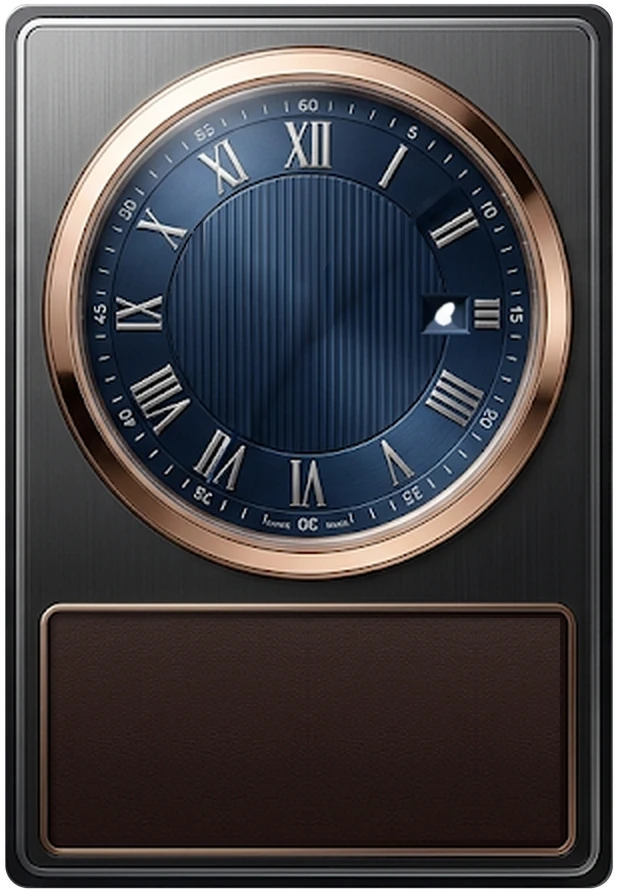
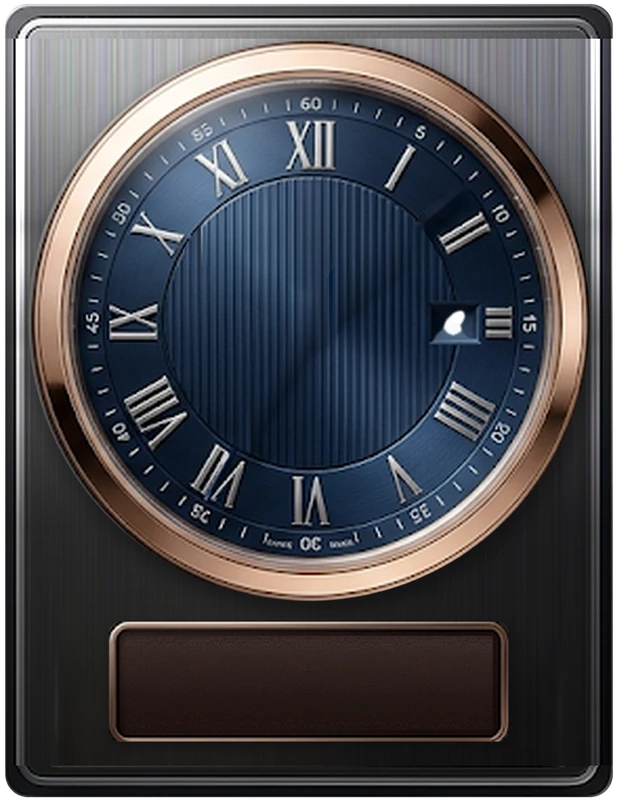
Add files via upload

diff --git a/clock.js b/clock.js
@@ -1,4 +1,12 @@
-
+/* =====================================================================
+   왼쪽 사진 아래 시계 (아날로그 + 디지털)
+   - 왼쪽 칸 맨 위에 시계, 그 옆에 파란 글씨 칸, 그 아래에 사진이 와요.
+   - 시계를 더블클릭하면 시계만 작은 창으로 떠요 (크롬·엣지 PC: 다른 프로그램 위에 항상 떠 있음).
+     그 밖의 브라우저에서는 홈페이지 화면 오른쪽 아래에 떠 있어요.
+     떠 있는 시계를 다시 더블클릭하거나 창을 닫으면 원래 자리로 돌아와요.
+   - 시계 그림: clock-face.webp (watchsample 이미지에서 바늘·숫자를 지운 것)
+   - 크기 조절: 아래 CLOCK_WIDTH 값을 바꾸면 돼요 (사진 높이도 자동으로 맞춰져요).
+   ===================================================================== */
 (function () {
     "use strict";
 
@@ -9,6 +17,9 @@
     var POPUP_W = 240, POPUP_H = 311; // 떠 있는 창 크기(px) - 시계 비율과 같게
     var VB_W = 618, VB_H = 801;      // 시계 그림 기준 크기 (비율 유지용)
 
+    var NOTE_TEXT = "Everything will be okay.";  // 시계 옆 파란 칸 글씨
+    var NOTE_HOLD = 15;                         // 다 쓴 뒤 다시 쓰기까지 기다리는 시간(초)
+
     var NS = "http://www.w3.org/2000/svg";
     var CYAN = "#3fd4ff";
     var DAYS = ["SUN", "MON", "TUE", "WED", "THU", "FRI", "SAT"];
@@ -17,14 +28,23 @@
     /* ---------- 스타일 ---------- */
     var style = document.createElement("style");
     style.textContent = [
-        ".tree-panel { --dc-w: " + CLOCK_WIDTH + "px; }",
-        ".tree-panel img { height: calc(100% - var(--dc-w) * " + (VB_H / VB_W) + " - 12px) !important; }",
-        ".dc-home { position: absolute; left: 0; bottom: 0; width: var(--dc-w); }",
+        ".tree-panel { --dc-w: " + CLOCK_WIDTH + "px; --dc-h: calc(var(--dc-w) * " + (VB_H / VB_W) + "); }",
+        /* 시계 줄이 위, 사진이 아래 */
+        ".tree-panel img { top: calc(var(--dc-h) + 12px) !important; height: calc(100% - var(--dc-h) - 12px) !important; }",
+        ".dc-home { position: absolute; top: 0; left: 0; right: 24px; height: var(--dc-h); display: flex; gap: 10px; }",
+        ".dc-slot { flex: none; width: var(--dc-w); height: var(--dc-h); }",
         ".dc-wrap { width: 100%; cursor: pointer; user-select: none; -webkit-user-select: none; }",
         ".dc-svg { display: block; width: 100%; height: auto; filter: drop-shadow(0 3px 6px rgba(0,0,0,.35)); }",
         ".dc-wrap.dc-float { position: fixed; right: 16px; bottom: 16px; width: 170px; z-index: 2147483000; }",
         ".dc-ph { display: none; padding: 6px 2px; font-size: 10px; line-height: 1.4; color: #888; cursor: pointer; }",
-        ".dc-home.dc-away .dc-ph { display: block; }"
+        ".dc-home.dc-away .dc-ph { display: block; }",
+        /* 시계 옆 파란 칸 (졸라맨 칸과 같은 구조) */
+        ".dc-note { position: relative; flex: 1 1 auto; min-width: 0; background: #1f5fc4; border: 1px solid #164a9c; overflow: hidden; }",
+        ".dc-note::after { content: ''; position: absolute; inset: 12.5%; border: 4px solid #fff; border-radius: 3px; background: #1f5fc4; }",
+        ".dc-note-text { position: absolute; inset: 12.5%; z-index: 1; padding: 8px 9px; box-sizing: border-box; margin: 0;",
+        "    color: #fff; font: 700 13px/1.3 'Gaegu', 'Malgun Gothic', sans-serif; letter-spacing: 0.3px; white-space: pre-wrap; overflow: hidden; }",
+        ".dc-caret { display: inline-block; width: 1px; height: 0.95em; margin-left: 1px; vertical-align: -0.1em; background: #fff; animation: dc-blink 1s steps(1) infinite; }",
+        "@keyframes dc-blink { 50% { opacity: 0; } }"
     ].join("\n");
     document.head.appendChild(style);
 
@@ -128,9 +148,45 @@
     var ph = document.createElement("div");
     ph.className = "dc-ph";
     ph.textContent = "시계가 작은 창으로 떠 있어요. 여기를 클릭하면 돌아와요.";
-    home.appendChild(wrap);
-    home.appendChild(ph);
+    var slot = document.createElement("div");
+    slot.className = "dc-slot";
+    slot.appendChild(wrap);
+    slot.appendChild(ph);
+    home.appendChild(slot);
+
+    var note = document.createElement("div");
+    note.className = "dc-note";
+    var noteText = document.createElement("p");
+    noteText.className = "dc-note-text";
+    noteText.setAttribute("aria-label", NOTE_TEXT);
+    note.appendChild(noteText);
+    home.appendChild(note);
     panel.appendChild(home);
+
+    /* ---------- 파란 칸 글씨: 위에서부터 한 글자씩 ---------- */
+    (function typeNote() {
+        var lines = NOTE_TEXT.split(" ").join("\n");   // 한 단어씩 한 줄
+        var caret = document.createElement("span");
+        caret.className = "dc-caret";
+        var txt = document.createTextNode("");
+        noteText.appendChild(txt);
+        noteText.appendChild(caret);
+        if (window.matchMedia && window.matchMedia("(prefers-reduced-motion: reduce)").matches) {
+            txt.data = lines; return;
+        }
+        var i = 0;
+        function step() {
+            if (i <= lines.length) {
+                txt.data = lines.slice(0, i);
+                var ch = lines.charAt(i - 1);
+                i++;
+                setTimeout(step, ch === "\n" ? 450 : 110);
+            } else {
+                setTimeout(function () { i = 0; step(); }, NOTE_HOLD * 1000);   // 다 쓰고 잠시 뒤 다시 쓰기
+            }
+        }
+        setTimeout(step, 600);
+    })();
 
     /* ---------- 시간 갱신 ---------- */
     var timerWin = window, timer = null;
@@ -176,7 +232,7 @@
 
     function backHome() {
         wrap.classList.remove("dc-float");
-        if (wrap.parentNode !== home) home.insertBefore(wrap, ph);
+        if (wrap.parentNode !== slot) slot.insertBefore(wrap, ph);
         home.classList.remove("dc-away");
         hint.textContent = "더블클릭: 최소화";
         pipWin = null;

diff --git a/index.html b/index.html
@@ -239,6 +239,6 @@
     <script src="postal.js"></script>
     <script src="spare.js?v=3"></script>
     <script src="memo.js"></script>
-    <script src="clock.js?v=1"></script>
+    <script src="clock.js?v=2"></script>
 </body>
 </html>
